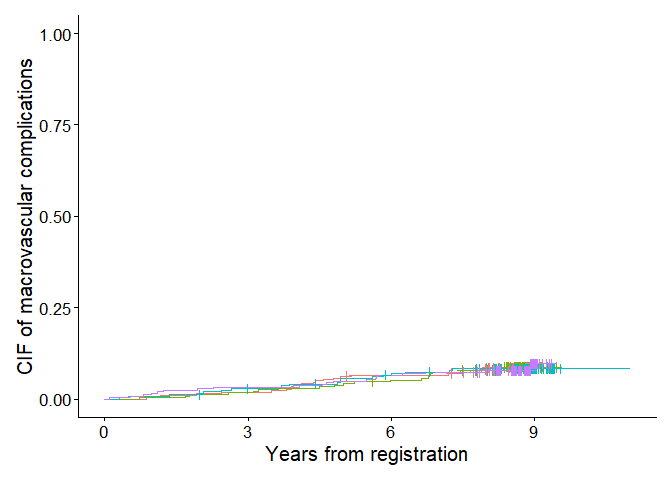
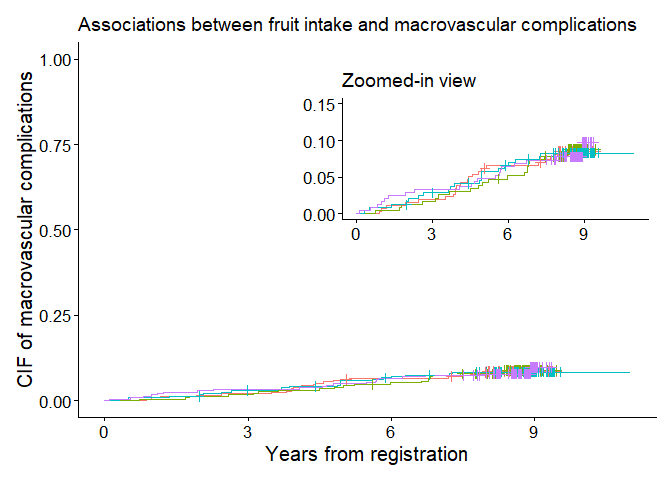
README

diff --git a/README.md b/README.md
@@ -660,18 +660,18 @@ output4 <- polyreg(nuisance.model=Event(t,d) ~ +1,
 msummary(output4$summary, statistic=c("conf.int", "p.value"), exponentiate=TRUE)
 ```
 
-|                        | event 1 (no competing risk)     |
-|------------------------|---------------------------------|
-| fruitq1, Q2 to Q4 vs 0 | 0.777                           |
-|                        | \[0.001, 685.697\]              |
-|                        | (0.942)                         |
-| effect.measure         | RR at 8                         |
-| n.events               | 358 in N = 978                  |
-| median.follow.up       | 8                               |
-| range.follow.up        | \[ 0.05 , 11 \]                 |
-| n.parameters           | 2                               |
-| converged.by           | Converged in objective function |
-| nleqslv.message        | Function criterion near zero    |
+|                  | event 1 (no competing risk)     |
+|------------------|---------------------------------|
+| fruitq1, 1 vs 0  | 1.288                           |
+|                  | \[0.001, 1136.895\]             |
+|                  | (0.942)                         |
+| effect.measure   | RR at 8                         |
+| n.events         | 358 in N = 978                  |
+| median.follow.up | 8                               |
+| range.follow.up  | \[ 0.05 , 11 \]                 |
+| n.parameters     | 2                               |
+| converged.by     | Converged in objective function |
+| nleqslv.message  | Function criterion near zero    |
 
 ## Example 3. Adjusted competing risks analysis
 
@@ -696,11 +696,11 @@ than exposure.
 msummary(output5$summary, statistic=c("conf.int", "p.value"), exponentiate=TRUE)
 ```
 
-<table style="width:99%;">
+<table style="width:97%;">
 <colgroup>
-<col style="width: 21%" />
-<col style="width: 62%" />
-<col style="width: 14%" />
+<col style="width: 26%" />
+<col style="width: 47%" />
+<col style="width: 23%" />
 </colgroup>
 <thead>
 <tr>
@@ -711,19 +711,19 @@ msummary(output5$summary, statistic=c("conf.int", "p.value"), exponentiate=TRUE)
 </thead>
 <tbody>
 <tr>
-<td>fruitq1, Q2 to Q4 vs 0</td>
-<td>0.645</td>
-<td>1.107</td>
+<td>fruitq1, 1 vs 0</td>
+<td>1.552</td>
+<td>0.909</td>
 </tr>
 <tr>
 <td></td>
-<td>[0.490, 0.848]</td>
-<td>[0.600, 2.042]</td>
+<td>[1.331, 1.810]</td>
+<td>[0.493, 1.676]</td>
 </tr>
 <tr>
 <td></td>
-<td>(0.002)</td>
-<td>(0.745)</td>
+<td>(&lt;0.001)</td>
+<td>(0.761)</td>
 </tr>
 <tr>
 <td>effect.measure</td>
@@ -758,15 +758,14 @@ msummary(output5$summary, statistic=c("conf.int", "p.value"), exponentiate=TRUE)
 </tr>
 <tr>
 <td>converged.by</td>
-<td>Converged in relative difference</td>
+<td>Converged in objective function</td>
 <td><ul>
 <li></li>
 </ul></td>
 </tr>
 <tr>
 <td>nleqslv.message</td>
-<td>Jacobian is singular (1/condition=0.0e+00) (see allowSingular
-option)</td>
+<td>Function criterion near zero</td>
 <td><ul>
 <li></li>
 </ul></td>
